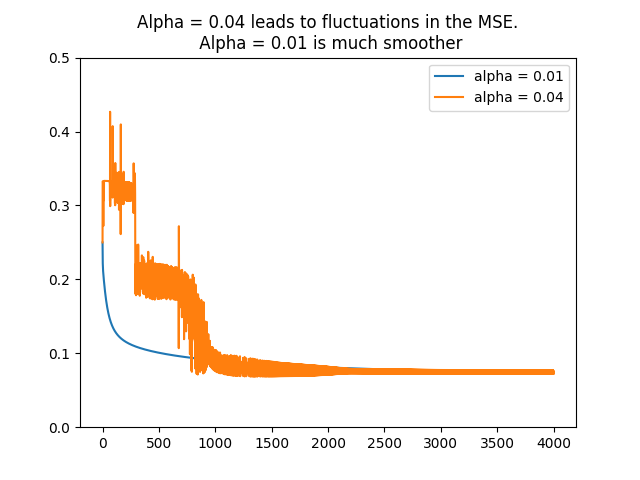
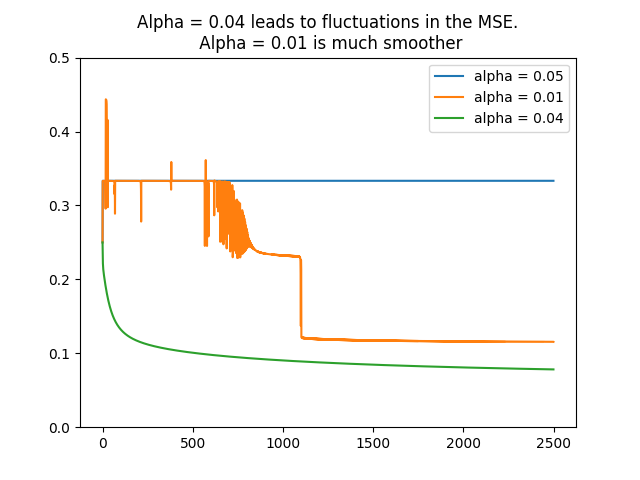
better mse value plot

diff --git a/iris.py b/iris.py
@@ -146,13 +146,12 @@ def print_histogram():
         plt.savefig('./figures/histogram' + str(i+1) + '.png')
     plt.show()
 
-
-def plot_mse(iterations, mse_values, mse_values2):
+def plot_mse(iterations, mse_values, mse_values2, mse_values3):
     plt.figure(4)
     plt.title("Alpha = 0.04 leads to fluctuations in the MSE.\n Alpha = 0.01 is much smoother")
     steps = list(range(iterations))
-    plt.plot(steps, mse_values, steps, mse_values2)
-    labels = "alpha = 0.01", "alpha = 0.04"
+    plt.plot(steps, mse_values3, steps, mse_values2, steps, mse_values)
+    labels = "alpha = 0.05", "alpha = 0.01", "alpha = 0.04"
     plt.legend(labels)
     plt.ylim(0, 0.5)
     plt.savefig("./figures/mse_values.png")
@@ -195,10 +194,9 @@ def problem1(x,t,alpha, iterations):
     print("confusion matrix for training set:\n",confusion_train)
     print_confusion(confusion_train)
 
-    W2, mse_values2 = train(x[:90], t[:90], 0.04, iterations)
-    plot_mse(iterations,mse_values, mse_values2)
-
-
+    W2, mse_values2 = train(x[:90], t[:90], 0.05, iterations)
+    W3, mse_values3 = train(x[:90], t[:90], 0.1, iterations)
+    plot_mse(iterations,mse_values, mse_values2,mse_values3)
 
 def problem2(x,t,alpha,iterations):
     #Remove first feature
@@ -258,11 +256,11 @@ def problem2(x,t,alpha,iterations):
     #print_confusion(confusion_train)
 
 if __name__ == '__main__':
-    iterations = 4000
+    iterations = 2500
     alpha = 0.001
     x,t = get_data()
     
-    print_histogram()
+    #print_histogram()
 
     problem1(x,t,alpha,iterations)
-    problem2(x,t,alpha,iterations)
+    #problem2(x,t,alpha,iterations)

diff --git a/wovels.py b/wovels.py
@@ -3,6 +3,7 @@ import numpy as np
 from scipy.stats import multivariate_normal
 from sklearn.mixture import GaussianMixture
 
+
 def get_data():
     '''
     Returns data from the dataset
